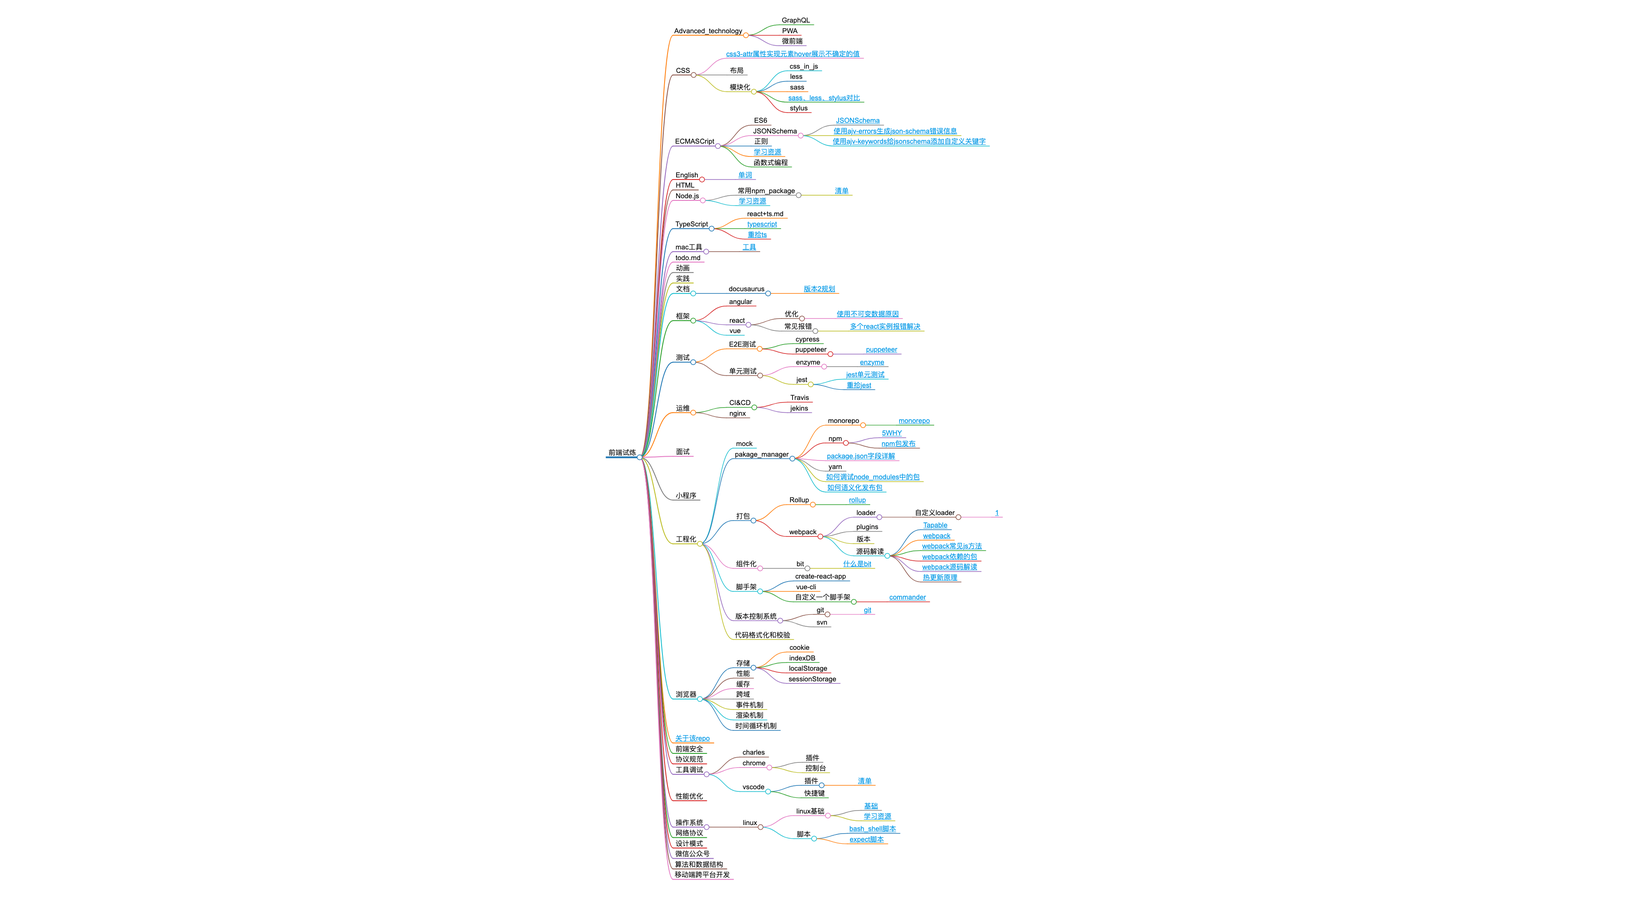
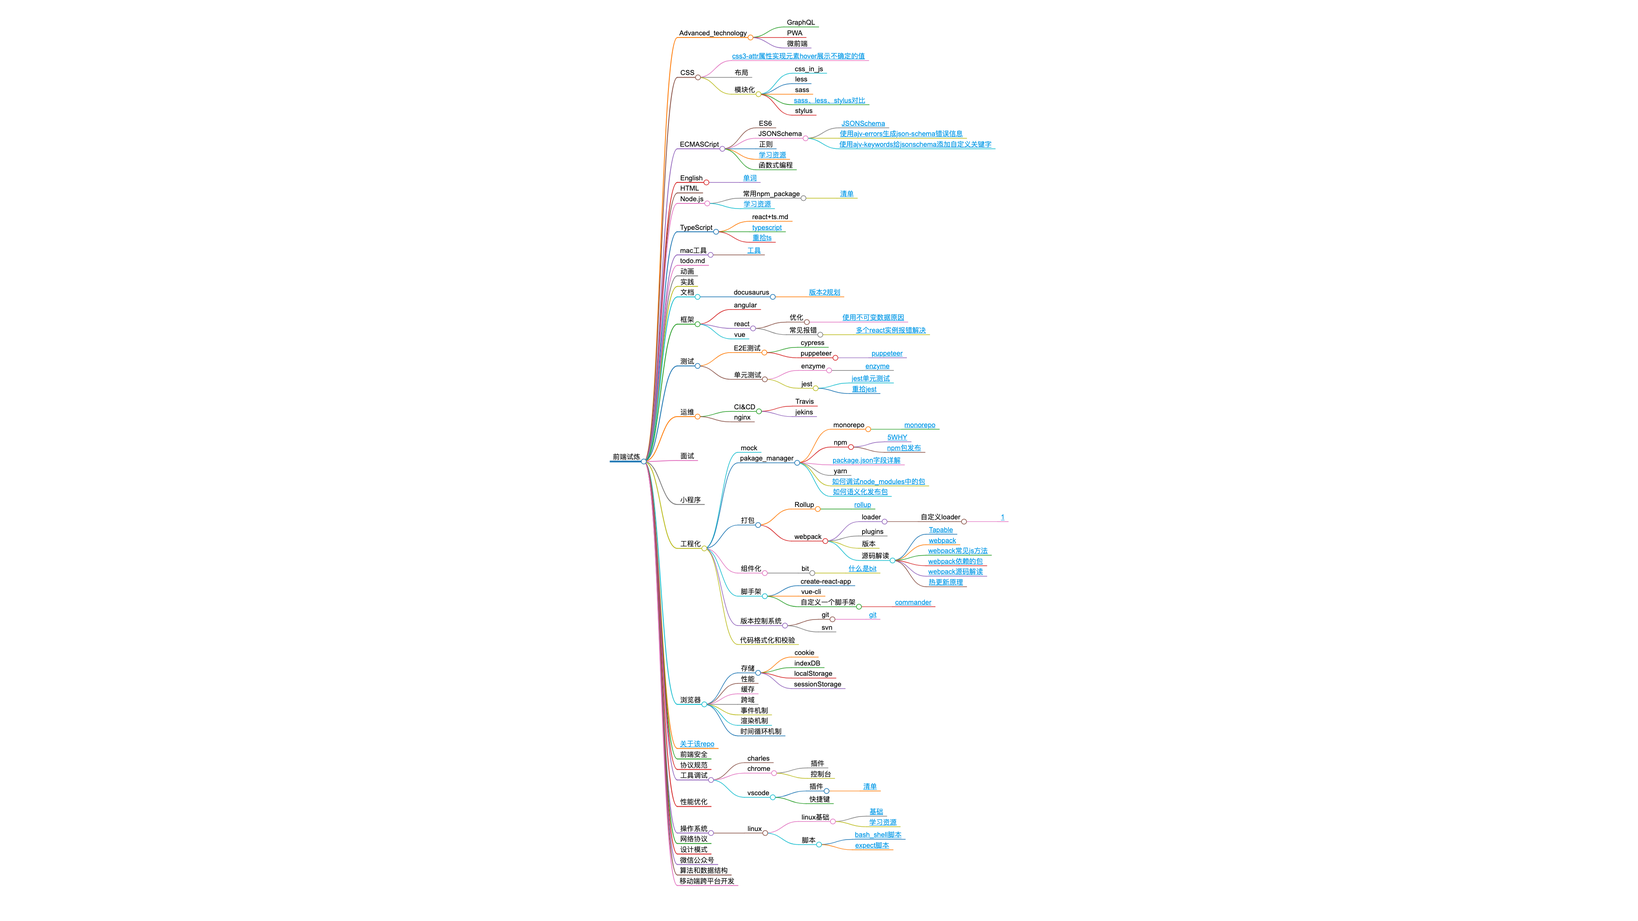
chore: updata思维导图

Changed region(s): [[0.375, 0.0, 0.625, 0.9616]]

diff --git a/website/static/xmind.html b/website/static/xmind.html
@@ -28,6 +28,6 @@
         (init ? init(loadPlugins, items, opts) : Promise.resolve()).then(() => {
           window.mm = Markmap.create('svg#mindmap', null, data);
         });
-      })({"t":"heading","d":1,"v":"前端试炼","c":[{"t":"list_item","d":2,"v":"Advanced_technology","c":[{"t":"list_item","d":3,"v":"GraphQL"},{"t":"list_item","d":3,"v":"PWA"},{"t":"list_item","d":3,"v":"微前端"}]},{"t":"list_item","d":2,"v":"CSS","c":[{"t":"list_item","d":3,"v":"<a href=\"docs/CSS/0729c4e1a19b9e3b6904b91e63cbd435\" title=\"\" target=\"_blank\" rel=\"noopener noreferrer\">css3-attr属性实现元素hover展示不确定的值</a>"},{"t":"list_item","d":3,"v":"布局"},{"t":"list_item","d":3,"v":"模块化","c":[{"t":"list_item","d":4,"v":"css_in_js"},{"t":"list_item","d":4,"v":"less"},{"t":"list_item","d":4,"v":"sass"},{"t":"list_item","d":4,"v":"<a href=\"docs/CSS/模块化/98c70242585e1c8ac87207d342ab81e0\" title=\"\" target=\"_blank\" rel=\"noopener noreferrer\">sass、less、stylus对比</a>"},{"t":"list_item","d":4,"v":"stylus"}]}]},{"t":"list_item","d":2,"v":"ECMASCript","c":[{"t":"list_item","d":3,"v":"ES6"},{"t":"list_item","d":3,"v":"JSONSchema","c":[{"t":"list_item","d":4,"v":"<a href=\"docs/ECMASCript/JSONSchema/718deb34c13a2d51e3c2ba69f472fce9\" title=\"\" target=\"_blank\" rel=\"noopener noreferrer\">JSONSchema</a>"},{"t":"list_item","d":4,"v":"<a href=\"docs/ECMASCript/JSONSchema/f7964c8f9054ea24043d6089ad339147\" title=\"\" target=\"_blank\" rel=\"noopener noreferrer\">使用ajv-errors生成json-schema错误信息</a>"},{"t":"list_item","d":4,"v":"<a href=\"docs/ECMASCript/JSONSchema/5237e232cb7cb852580db82169fdcaeb\" title=\"\" target=\"_blank\" rel=\"noopener noreferrer\">使用ajv-keywords给jsonschema添加自定义关键字</a>"}]},{"t":"list_item","d":3,"v":"正则"},{"t":"list_item","d":3,"v":"<a href=\"docs/操作系统/linux/linux基础/689f3c1463ddd1dcc82289676bfe9c29\" title=\"\" target=\"_blank\" rel=\"noopener noreferrer\">学习资源</a>"},{"t":"list_item","d":3,"v":"函数式编程"}]},{"t":"list_item","d":2,"v":"English","c":[{"t":"list_item","d":3,"v":"<a href=\"docs/English/72a91cf59167d6c497b1e3057447af5a\" title=\"\" target=\"_blank\" rel=\"noopener noreferrer\">单词</a>"}]},{"t":"list_item","d":2,"v":"HTML"},{"t":"list_item","d":2,"v":"Node.js","c":[{"t":"list_item","d":3,"v":"常用npm_package","c":[{"t":"list_item","d":4,"v":"<a href=\"docs/工具调试/vscode/插件/936218830ddd439aad69eb5381a0136e\" title=\"\" target=\"_blank\" rel=\"noopener noreferrer\">清单</a>"}]},{"t":"list_item","d":3,"v":"<a href=\"docs/操作系统/linux/linux基础/689f3c1463ddd1dcc82289676bfe9c29\" title=\"\" target=\"_blank\" rel=\"noopener noreferrer\">学习资源</a>"}]},{"t":"list_item","d":2,"v":"TypeScript","c":[{"t":"list_item","d":3,"v":"react+ts.md"},{"t":"list_item","d":3,"v":"<a href=\"docs/TypeScript/808567b84cc51ad515d4820e54f84e31\" title=\"\" target=\"_blank\" rel=\"noopener noreferrer\">typescript</a>"},{"t":"list_item","d":3,"v":"<a href=\"docs/TypeScript/b36f6376acc1abd98aab96ef91491d2b\" title=\"\" target=\"_blank\" rel=\"noopener noreferrer\">重拾ts</a>"}]},{"t":"list_item","d":2,"v":"mac工具","c":[{"t":"list_item","d":3,"v":"<a href=\"docs/mac工具/5bda6d956aa9663cc7cc9f670a33c494\" title=\"\" target=\"_blank\" rel=\"noopener noreferrer\">工具</a>"}]},{"t":"list_item","d":2,"v":"todo.md"},{"t":"list_item","d":2,"v":"动画"},{"t":"list_item","d":2,"v":"实践"},{"t":"list_item","d":2,"v":"文档","c":[{"t":"list_item","d":3,"v":"docusaurus","c":[{"t":"list_item","d":4,"v":"<a href=\"docs/文档/docusaurus/a7934b68b6234157a1af4087537d1e8b\" title=\"\" target=\"_blank\" rel=\"noopener noreferrer\">版本2规划</a>"}]}]},{"t":"list_item","d":2,"v":"框架","c":[{"t":"list_item","d":3,"v":"angular"},{"t":"list_item","d":3,"v":"react","c":[{"t":"list_item","d":4,"v":"优化","c":[{"t":"list_item","d":5,"v":"<a href=\"docs/框架/react/优化/9593bd0a7ccc4b28542a173a5db9e40d\" title=\"\" target=\"_blank\" rel=\"noopener noreferrer\">使用不可变数据原因</a>"}]},{"t":"list_item","d":4,"v":"常见报错","c":[{"t":"list_item","d":5,"v":"<a href=\"docs/框架/react/常见报错/7d0e60c89a5f550eadf89f5f22550bcc\" title=\"\" target=\"_blank\" rel=\"noopener noreferrer\">多个react实例报错解决</a>"}]}]},{"t":"list_item","d":3,"v":"vue"}]},{"t":"list_item","d":2,"v":"测试","c":[{"t":"list_item","d":3,"v":"E2E测试","c":[{"t":"list_item","d":4,"v":"cypress"},{"t":"list_item","d":4,"v":"puppeteer","c":[{"t":"list_item","d":5,"v":"<a href=\"docs/测试/E2E测试/puppeteer/179673e977b3c3f9ad055a4b4a1e4eff\" title=\"\" target=\"_blank\" rel=\"noopener noreferrer\">puppeteer</a>"}]}]},{"t":"list_item","d":3,"v":"单元测试","c":[{"t":"list_item","d":4,"v":"enzyme","c":[{"t":"list_item","d":5,"v":"<a href=\"docs/测试/单元测试/enzyme/ff68fd239a281351a53d6e0b62b17fe7\" title=\"\" target=\"_blank\" rel=\"noopener noreferrer\">enzyme</a>"}]},{"t":"list_item","d":4,"v":"jest","c":[{"t":"list_item","d":5,"v":"<a href=\"docs/测试/单元测试/jest/094b039468990ad513f1f8dd484d8dc2\" title=\"\" target=\"_blank\" rel=\"noopener noreferrer\">jest单元测试</a>"},{"t":"list_item","d":5,"v":"<a href=\"docs/测试/单元测试/jest/b1f6cee7ef1784df1f5f69a9c4a785da\" title=\"\" target=\"_blank\" rel=\"noopener noreferrer\">重拾jest</a>"}]}]}]},{"t":"list_item","d":2,"v":"运维","c":[{"t":"list_item","d":3,"v":"CI&amp;CD","c":[{"t":"list_item","d":4,"v":"Travis"},{"t":"list_item","d":4,"v":"jekins"}]},{"t":"list_item","d":3,"v":"nginx"}]},{"t":"list_item","d":2,"v":"面试"},{"t":"list_item","d":2,"v":"小程序"},{"t":"list_item","d":2,"v":"工程化","c":[{"t":"list_item","d":3,"v":"mock"},{"t":"list_item","d":3,"v":"pakage_manager","c":[{"t":"list_item","d":4,"v":"monorepo","c":[{"t":"list_item","d":5,"v":"<a href=\"docs/工程化/pakage_manager/monorepo/8f5278ed6bda43d57e7b77d4c5a243e6\" title=\"\" target=\"_blank\" rel=\"noopener noreferrer\">monorepo</a>"}]},{"t":"list_item","d":4,"v":"npm","c":[{"t":"list_item","d":5,"v":"<a href=\"docs/工程化/pakage_manager/npm/c7133389f53e8d534c388d5ce8b37459\" title=\"\" target=\"_blank\" rel=\"noopener noreferrer\">5WHY</a>"},{"t":"list_item","d":5,"v":"<a href=\"docs/工程化/pakage_manager/npm/ba56c3b18aefa148f9439f026ec3f973\" title=\"\" target=\"_blank\" rel=\"noopener noreferrer\">npm包发布</a>"}]},{"t":"list_item","d":4,"v":"<a href=\"docs/工程化/pakage_manager/38f14e8081af1e36ddd422fa9b4db94a\" title=\"\" target=\"_blank\" rel=\"noopener noreferrer\">package.json字段详解</a>"},{"t":"list_item","d":4,"v":"yarn"},{"t":"list_item","d":4,"v":"<a href=\"docs/工程化/pakage_manager/e6a07bea153f8b002ef8dc47f8bc1311\" title=\"\" target=\"_blank\" rel=\"noopener noreferrer\">如何调试node_modules中的包</a>"},{"t":"list_item","d":4,"v":"<a href=\"docs/工程化/pakage_manager/ec0f88d99c3ac3c6b5038c575ac4d1ce\" title=\"\" target=\"_blank\" rel=\"noopener noreferrer\">如何语义化发布包</a>"}]},{"t":"list_item","d":3,"v":"打包","c":[{"t":"list_item","d":4,"v":"Rollup","c":[{"t":"list_item","d":5,"v":"<a href=\"docs/工程化/打包/Rollup/4918d3072fb3da6be9ad6cfe54c020f3\" title=\"\" target=\"_blank\" rel=\"noopener noreferrer\">rollup</a>"}]},{"t":"list_item","d":4,"v":"webpack","c":[{"t":"list_item","d":5,"v":"loader","c":[{"t":"list_item","d":6,"v":"自定义loader","c":[{"t":"list_item","d":7,"v":"<a href=\"docs/工程化/打包/webpack/loader/自定义loader/c6093b78d3f332e1920b4067fa4121a9\" title=\"\" target=\"_blank\" rel=\"noopener noreferrer\">1</a>"}]}]},{"t":"list_item","d":5,"v":"plugins"},{"t":"list_item","d":5,"v":"版本"},{"t":"list_item","d":5,"v":"源码解读","c":[{"t":"list_item","d":6,"v":"<a href=\"docs/工程化/打包/webpack/源码解读/3044cf73a36f83e5344247f79ffb719e\" title=\"\" target=\"_blank\" rel=\"noopener noreferrer\">Tapable</a>"},{"t":"list_item","d":6,"v":"<a href=\"docs/工程化/打包/webpack/源码解读/8b9409a6ad189493556150ffca9a2079\" title=\"\" target=\"_blank\" rel=\"noopener noreferrer\">webpack</a>"},{"t":"list_item","d":6,"v":"<a href=\"docs/工程化/打包/webpack/源码解读/7cb10912f28c1696659c6131b517f27c\" title=\"\" target=\"_blank\" rel=\"noopener noreferrer\">webpack常见js方法</a>"},{"t":"list_item","d":6,"v":"<a href=\"docs/工程化/打包/webpack/源码解读/0889ebe5191ee49173a6c02e5d4ccd6f\" title=\"\" target=\"_blank\" rel=\"noopener noreferrer\">webpack依赖的包</a>"},{"t":"list_item","d":6,"v":"<a href=\"docs/工程化/打包/webpack/源码解读/80e8979bbebe30571bf98fea6d3b32d0\" title=\"\" target=\"_blank\" rel=\"noopener noreferrer\">webpack源码解读</a>"},{"t":"list_item","d":6,"v":"<a href=\"docs/工程化/打包/webpack/源码解读/768e191e2dc797ba437ddbf619dcf3b5\" title=\"\" target=\"_blank\" rel=\"noopener noreferrer\">热更新原理</a>"}]}]}]},{"t":"list_item","d":3,"v":"组件化","c":[{"t":"list_item","d":4,"v":"bit","c":[{"t":"list_item","d":5,"v":"<a href=\"docs/工程化/组件化/bit/a0d47b851468953d2c75ec36293fc240\" title=\"\" target=\"_blank\" rel=\"noopener noreferrer\">什么是bit</a>"}]}]},{"t":"list_item","d":3,"v":"脚手架","c":[{"t":"list_item","d":4,"v":"create-react-app"},{"t":"list_item","d":4,"v":"vue-cli"},{"t":"list_item","d":4,"v":"自定义一个脚手架","c":[{"t":"list_item","d":5,"v":"<a href=\"docs/工程化/脚手架/自定义一个脚手架/e1f3c1423014acd77d6282114faf6935\" title=\"\" target=\"_blank\" rel=\"noopener noreferrer\">commander</a>"}]}]},{"t":"list_item","d":3,"v":"版本控制系统","c":[{"t":"list_item","d":4,"v":"git","c":[{"t":"list_item","d":5,"v":"<a href=\"docs/工程化/版本控制系统/git/85735fc293ff4dbf3ef3e42201cb061d\" title=\"\" target=\"_blank\" rel=\"noopener noreferrer\">git</a>"}]},{"t":"list_item","d":4,"v":"svn"}]},{"t":"list_item","d":3,"v":"代码格式化和校验"}]},{"t":"list_item","d":2,"v":"浏览器","c":[{"t":"list_item","d":3,"v":"存储","c":[{"t":"list_item","d":4,"v":"cookie"},{"t":"list_item","d":4,"v":"indexDB"},{"t":"list_item","d":4,"v":"localStorage"},{"t":"list_item","d":4,"v":"sessionStorage"}]},{"t":"list_item","d":3,"v":"性能"},{"t":"list_item","d":3,"v":"缓存"},{"t":"list_item","d":3,"v":"跨域"},{"t":"list_item","d":3,"v":"事件机制"},{"t":"list_item","d":3,"v":"渲染机制"},{"t":"list_item","d":3,"v":"时间循环机制"}]},{"t":"list_item","d":2,"v":"<a href=\"docs/95a148348b289ba387509c05eb1c6af2\" title=\"\" target=\"_blank\" rel=\"noopener noreferrer\">关于该repo</a>"},{"t":"list_item","d":2,"v":"前端安全"},{"t":"list_item","d":2,"v":"协议规范"},{"t":"list_item","d":2,"v":"工具调试","c":[{"t":"list_item","d":3,"v":"charles"},{"t":"list_item","d":3,"v":"chrome","c":[{"t":"list_item","d":4,"v":"插件"},{"t":"list_item","d":4,"v":"控制台"}]},{"t":"list_item","d":3,"v":"vscode","c":[{"t":"list_item","d":4,"v":"插件","c":[{"t":"list_item","d":5,"v":"<a href=\"docs/工具调试/vscode/插件/936218830ddd439aad69eb5381a0136e\" title=\"\" target=\"_blank\" rel=\"noopener noreferrer\">清单</a>"}]},{"t":"list_item","d":4,"v":"快捷键"}]}]},{"t":"list_item","d":2,"v":"性能优化"},{"t":"list_item","d":2,"v":"操作系统","c":[{"t":"list_item","d":3,"v":"linux","c":[{"t":"list_item","d":4,"v":"linux基础","c":[{"t":"list_item","d":5,"v":"<a href=\"docs/操作系统/linux/linux基础/585ed91706206035253631d51d62d7d1\" title=\"\" target=\"_blank\" rel=\"noopener noreferrer\">基础</a>"},{"t":"list_item","d":5,"v":"<a href=\"docs/操作系统/linux/linux基础/689f3c1463ddd1dcc82289676bfe9c29\" title=\"\" target=\"_blank\" rel=\"noopener noreferrer\">学习资源</a>"}]},{"t":"list_item","d":4,"v":"脚本","c":[{"t":"list_item","d":5,"v":"<a href=\"docs/操作系统/linux/脚本/5d8743a01675138db72310478b6c7f30\" title=\"\" target=\"_blank\" rel=\"noopener noreferrer\">bash_shell脚本</a>"},{"t":"list_item","d":5,"v":"<a href=\"docs/操作系统/linux/脚本/c89e3ed149c086944696ba0fe3a5ffde\" title=\"\" target=\"_blank\" rel=\"noopener noreferrer\">expect脚本</a>"}]}]}]},{"t":"list_item","d":2,"v":"网络协议"},{"t":"list_item","d":2,"v":"设计模式"},{"t":"list_item","d":2,"v":"微信公众号"},{"t":"list_item","d":2,"v":"算法和数据结构"},{"t":"list_item","d":2,"v":"移动端跨平台开发"}]},(loadPlugins, items, opts) => loadPlugins(items, opts),["prism"],{"prism":true})</script>
+      })({"t":"heading","d":1,"v":"前端试炼","c":[{"t":"list_item","d":2,"v":"Advanced_technology","c":[{"t":"list_item","d":3,"v":"GraphQL"},{"t":"list_item","d":3,"v":"PWA"},{"t":"list_item","d":3,"v":"微前端"}]},{"t":"list_item","d":2,"v":"CSS","c":[{"t":"list_item","d":3,"v":"<a href=\"docs/CSS/0729c4e1a19b9e3b6904b91e63cbd435\" title=\"\" target=\"_blank\" rel=\"noopener noreferrer\">css3-attr属性实现元素hover展示不确定的值</a>"},{"t":"list_item","d":3,"v":"布局"},{"t":"list_item","d":3,"v":"模块化","c":[{"t":"list_item","d":4,"v":"css_in_js"},{"t":"list_item","d":4,"v":"less"},{"t":"list_item","d":4,"v":"sass"},{"t":"list_item","d":4,"v":"<a href=\"docs/CSS/模块化/98c70242585e1c8ac87207d342ab81e0\" title=\"\" target=\"_blank\" rel=\"noopener noreferrer\">sass、less、stylus对比</a>"},{"t":"list_item","d":4,"v":"stylus"}]}]},{"t":"list_item","d":2,"v":"ECMASCript","c":[{"t":"list_item","d":3,"v":"ES6"},{"t":"list_item","d":3,"v":"JSONSchema","c":[{"t":"list_item","d":4,"v":"<a href=\"docs/ECMASCript/JSONSchema/718deb34c13a2d51e3c2ba69f472fce9\" title=\"\" target=\"_blank\" rel=\"noopener noreferrer\">JSONSchema</a>"},{"t":"list_item","d":4,"v":"<a href=\"docs/ECMASCript/JSONSchema/f7964c8f9054ea24043d6089ad339147\" title=\"\" target=\"_blank\" rel=\"noopener noreferrer\">使用ajv-errors生成json-schema错误信息</a>"},{"t":"list_item","d":4,"v":"<a href=\"docs/ECMASCript/JSONSchema/5237e232cb7cb852580db82169fdcaeb\" title=\"\" target=\"_blank\" rel=\"noopener noreferrer\">使用ajv-keywords给jsonschema添加自定义关键字</a>"}]},{"t":"list_item","d":3,"v":"正则"},{"t":"list_item","d":3,"v":"<a href=\"docs/ECMASCript/b53484b1bcbe1911e09c68d510ac7d64\" title=\"\" target=\"_blank\" rel=\"noopener noreferrer\">学习资源</a>"},{"t":"list_item","d":3,"v":"函数式编程"}]},{"t":"list_item","d":2,"v":"English","c":[{"t":"list_item","d":3,"v":"<a href=\"docs/English/72a91cf59167d6c497b1e3057447af5a\" title=\"\" target=\"_blank\" rel=\"noopener noreferrer\">单词</a>"}]},{"t":"list_item","d":2,"v":"HTML"},{"t":"list_item","d":2,"v":"Node.js","c":[{"t":"list_item","d":3,"v":"常用npm_package","c":[{"t":"list_item","d":4,"v":"<a href=\"docs/Node.js/常用npm_package/67e99d6582cb0c3126c6e3f7cc9a7d66\" title=\"\" target=\"_blank\" rel=\"noopener noreferrer\">清单</a>"}]},{"t":"list_item","d":3,"v":"<a href=\"docs/ECMASCript/b53484b1bcbe1911e09c68d510ac7d64\" title=\"\" target=\"_blank\" rel=\"noopener noreferrer\">学习资源</a>"}]},{"t":"list_item","d":2,"v":"TypeScript","c":[{"t":"list_item","d":3,"v":"react+ts.md"},{"t":"list_item","d":3,"v":"<a href=\"docs/TypeScript/808567b84cc51ad515d4820e54f84e31\" title=\"\" target=\"_blank\" rel=\"noopener noreferrer\">typescript</a>"},{"t":"list_item","d":3,"v":"<a href=\"docs/TypeScript/b36f6376acc1abd98aab96ef91491d2b\" title=\"\" target=\"_blank\" rel=\"noopener noreferrer\">重拾ts</a>"}]},{"t":"list_item","d":2,"v":"mac工具","c":[{"t":"list_item","d":3,"v":"<a href=\"docs/mac工具/e4900cf2bab323e0782022384a85a741\" title=\"\" target=\"_blank\" rel=\"noopener noreferrer\">工具</a>"}]},{"t":"list_item","d":2,"v":"todo.md"},{"t":"list_item","d":2,"v":"动画"},{"t":"list_item","d":2,"v":"实践"},{"t":"list_item","d":2,"v":"文档","c":[{"t":"list_item","d":3,"v":"docusaurus","c":[{"t":"list_item","d":4,"v":"<a href=\"docs/文档/docusaurus/a7934b68b6234157a1af4087537d1e8b\" title=\"\" target=\"_blank\" rel=\"noopener noreferrer\">版本2规划</a>"}]}]},{"t":"list_item","d":2,"v":"框架","c":[{"t":"list_item","d":3,"v":"angular"},{"t":"list_item","d":3,"v":"react","c":[{"t":"list_item","d":4,"v":"优化","c":[{"t":"list_item","d":5,"v":"<a href=\"docs/框架/react/优化/9593bd0a7ccc4b28542a173a5db9e40d\" title=\"\" target=\"_blank\" rel=\"noopener noreferrer\">使用不可变数据原因</a>"}]},{"t":"list_item","d":4,"v":"常见报错","c":[{"t":"list_item","d":5,"v":"<a href=\"docs/框架/react/常见报错/7d0e60c89a5f550eadf89f5f22550bcc\" title=\"\" target=\"_blank\" rel=\"noopener noreferrer\">多个react实例报错解决</a>"}]}]},{"t":"list_item","d":3,"v":"vue"}]},{"t":"list_item","d":2,"v":"测试","c":[{"t":"list_item","d":3,"v":"E2E测试","c":[{"t":"list_item","d":4,"v":"cypress"},{"t":"list_item","d":4,"v":"puppeteer","c":[{"t":"list_item","d":5,"v":"<a href=\"docs/测试/E2E测试/puppeteer/179673e977b3c3f9ad055a4b4a1e4eff\" title=\"\" target=\"_blank\" rel=\"noopener noreferrer\">puppeteer</a>"}]}]},{"t":"list_item","d":3,"v":"单元测试","c":[{"t":"list_item","d":4,"v":"enzyme","c":[{"t":"list_item","d":5,"v":"<a href=\"docs/测试/单元测试/enzyme/ff68fd239a281351a53d6e0b62b17fe7\" title=\"\" target=\"_blank\" rel=\"noopener noreferrer\">enzyme</a>"}]},{"t":"list_item","d":4,"v":"jest","c":[{"t":"list_item","d":5,"v":"<a href=\"docs/测试/单元测试/jest/094b039468990ad513f1f8dd484d8dc2\" title=\"\" target=\"_blank\" rel=\"noopener noreferrer\">jest单元测试</a>"},{"t":"list_item","d":5,"v":"<a href=\"docs/测试/单元测试/jest/b1f6cee7ef1784df1f5f69a9c4a785da\" title=\"\" target=\"_blank\" rel=\"noopener noreferrer\">重拾jest</a>"}]}]}]},{"t":"list_item","d":2,"v":"运维","c":[{"t":"list_item","d":3,"v":"CI&amp;CD","c":[{"t":"list_item","d":4,"v":"Travis"},{"t":"list_item","d":4,"v":"jekins"}]},{"t":"list_item","d":3,"v":"nginx"}]},{"t":"list_item","d":2,"v":"面试"},{"t":"list_item","d":2,"v":"小程序"},{"t":"list_item","d":2,"v":"工程化","c":[{"t":"list_item","d":3,"v":"mock"},{"t":"list_item","d":3,"v":"pakage_manager","c":[{"t":"list_item","d":4,"v":"monorepo","c":[{"t":"list_item","d":5,"v":"<a href=\"docs/工程化/pakage_manager/monorepo/8f5278ed6bda43d57e7b77d4c5a243e6\" title=\"\" target=\"_blank\" rel=\"noopener noreferrer\">monorepo</a>"}]},{"t":"list_item","d":4,"v":"npm","c":[{"t":"list_item","d":5,"v":"<a href=\"docs/工程化/pakage_manager/npm/c7133389f53e8d534c388d5ce8b37459\" title=\"\" target=\"_blank\" rel=\"noopener noreferrer\">5WHY</a>"},{"t":"list_item","d":5,"v":"<a href=\"docs/工程化/pakage_manager/npm/ba56c3b18aefa148f9439f026ec3f973\" title=\"\" target=\"_blank\" rel=\"noopener noreferrer\">npm包发布</a>"}]},{"t":"list_item","d":4,"v":"<a href=\"docs/工程化/pakage_manager/38f14e8081af1e36ddd422fa9b4db94a\" title=\"\" target=\"_blank\" rel=\"noopener noreferrer\">package.json字段详解</a>"},{"t":"list_item","d":4,"v":"yarn"},{"t":"list_item","d":4,"v":"<a href=\"docs/工程化/pakage_manager/e6a07bea153f8b002ef8dc47f8bc1311\" title=\"\" target=\"_blank\" rel=\"noopener noreferrer\">如何调试node_modules中的包</a>"},{"t":"list_item","d":4,"v":"<a href=\"docs/工程化/pakage_manager/ec0f88d99c3ac3c6b5038c575ac4d1ce\" title=\"\" target=\"_blank\" rel=\"noopener noreferrer\">如何语义化发布包</a>"}]},{"t":"list_item","d":3,"v":"打包","c":[{"t":"list_item","d":4,"v":"Rollup","c":[{"t":"list_item","d":5,"v":"<a href=\"docs/工程化/打包/Rollup/4918d3072fb3da6be9ad6cfe54c020f3\" title=\"\" target=\"_blank\" rel=\"noopener noreferrer\">rollup</a>"}]},{"t":"list_item","d":4,"v":"webpack","c":[{"t":"list_item","d":5,"v":"loader","c":[{"t":"list_item","d":6,"v":"自定义loader","c":[{"t":"list_item","d":7,"v":"<a href=\"docs/工程化/打包/webpack/loader/自定义loader/c6093b78d3f332e1920b4067fa4121a9\" title=\"\" target=\"_blank\" rel=\"noopener noreferrer\">1</a>"}]}]},{"t":"list_item","d":5,"v":"plugins"},{"t":"list_item","d":5,"v":"版本"},{"t":"list_item","d":5,"v":"源码解读","c":[{"t":"list_item","d":6,"v":"<a href=\"docs/工程化/打包/webpack/源码解读/3044cf73a36f83e5344247f79ffb719e\" title=\"\" target=\"_blank\" rel=\"noopener noreferrer\">Tapable</a>"},{"t":"list_item","d":6,"v":"<a href=\"docs/工程化/打包/webpack/源码解读/8b9409a6ad189493556150ffca9a2079\" title=\"\" target=\"_blank\" rel=\"noopener noreferrer\">webpack</a>"},{"t":"list_item","d":6,"v":"<a href=\"docs/工程化/打包/webpack/源码解读/7cb10912f28c1696659c6131b517f27c\" title=\"\" target=\"_blank\" rel=\"noopener noreferrer\">webpack常见js方法</a>"},{"t":"list_item","d":6,"v":"<a href=\"docs/工程化/打包/webpack/源码解读/0889ebe5191ee49173a6c02e5d4ccd6f\" title=\"\" target=\"_blank\" rel=\"noopener noreferrer\">webpack依赖的包</a>"},{"t":"list_item","d":6,"v":"<a href=\"docs/工程化/打包/webpack/源码解读/80e8979bbebe30571bf98fea6d3b32d0\" title=\"\" target=\"_blank\" rel=\"noopener noreferrer\">webpack源码解读</a>"},{"t":"list_item","d":6,"v":"<a href=\"docs/工程化/打包/webpack/源码解读/768e191e2dc797ba437ddbf619dcf3b5\" title=\"\" target=\"_blank\" rel=\"noopener noreferrer\">热更新原理</a>"}]}]}]},{"t":"list_item","d":3,"v":"组件化","c":[{"t":"list_item","d":4,"v":"bit","c":[{"t":"list_item","d":5,"v":"<a href=\"docs/工程化/组件化/bit/a0d47b851468953d2c75ec36293fc240\" title=\"\" target=\"_blank\" rel=\"noopener noreferrer\">什么是bit</a>"}]}]},{"t":"list_item","d":3,"v":"脚手架","c":[{"t":"list_item","d":4,"v":"create-react-app"},{"t":"list_item","d":4,"v":"vue-cli"},{"t":"list_item","d":4,"v":"自定义一个脚手架","c":[{"t":"list_item","d":5,"v":"<a href=\"docs/工程化/脚手架/自定义一个脚手架/e1f3c1423014acd77d6282114faf6935\" title=\"\" target=\"_blank\" rel=\"noopener noreferrer\">commander</a>"}]}]},{"t":"list_item","d":3,"v":"版本控制系统","c":[{"t":"list_item","d":4,"v":"git","c":[{"t":"list_item","d":5,"v":"<a href=\"docs/工程化/版本控制系统/git/85735fc293ff4dbf3ef3e42201cb061d\" title=\"\" target=\"_blank\" rel=\"noopener noreferrer\">git</a>"}]},{"t":"list_item","d":4,"v":"svn"}]},{"t":"list_item","d":3,"v":"代码格式化和校验"}]},{"t":"list_item","d":2,"v":"浏览器","c":[{"t":"list_item","d":3,"v":"存储","c":[{"t":"list_item","d":4,"v":"cookie"},{"t":"list_item","d":4,"v":"indexDB"},{"t":"list_item","d":4,"v":"localStorage"},{"t":"list_item","d":4,"v":"sessionStorage"}]},{"t":"list_item","d":3,"v":"性能"},{"t":"list_item","d":3,"v":"缓存"},{"t":"list_item","d":3,"v":"跨域"},{"t":"list_item","d":3,"v":"事件机制"},{"t":"list_item","d":3,"v":"渲染机制"},{"t":"list_item","d":3,"v":"时间循环机制"}]},{"t":"list_item","d":2,"v":"<a href=\"docs/95a148348b289ba387509c05eb1c6af2\" title=\"\" target=\"_blank\" rel=\"noopener noreferrer\">关于该repo</a>"},{"t":"list_item","d":2,"v":"前端安全"},{"t":"list_item","d":2,"v":"协议规范"},{"t":"list_item","d":2,"v":"工具调试","c":[{"t":"list_item","d":3,"v":"charles"},{"t":"list_item","d":3,"v":"chrome","c":[{"t":"list_item","d":4,"v":"插件"},{"t":"list_item","d":4,"v":"控制台"}]},{"t":"list_item","d":3,"v":"vscode","c":[{"t":"list_item","d":4,"v":"插件","c":[{"t":"list_item","d":5,"v":"<a href=\"docs/Node.js/常用npm_package/67e99d6582cb0c3126c6e3f7cc9a7d66\" title=\"\" target=\"_blank\" rel=\"noopener noreferrer\">清单</a>"}]},{"t":"list_item","d":4,"v":"快捷键"}]}]},{"t":"list_item","d":2,"v":"性能优化"},{"t":"list_item","d":2,"v":"操作系统","c":[{"t":"list_item","d":3,"v":"linux","c":[{"t":"list_item","d":4,"v":"linux基础","c":[{"t":"list_item","d":5,"v":"<a href=\"docs/操作系统/linux/linux基础/585ed91706206035253631d51d62d7d1\" title=\"\" target=\"_blank\" rel=\"noopener noreferrer\">基础</a>"},{"t":"list_item","d":5,"v":"<a href=\"docs/ECMASCript/b53484b1bcbe1911e09c68d510ac7d64\" title=\"\" target=\"_blank\" rel=\"noopener noreferrer\">学习资源</a>"}]},{"t":"list_item","d":4,"v":"脚本","c":[{"t":"list_item","d":5,"v":"<a href=\"docs/操作系统/linux/脚本/5d8743a01675138db72310478b6c7f30\" title=\"\" target=\"_blank\" rel=\"noopener noreferrer\">bash_shell脚本</a>"},{"t":"list_item","d":5,"v":"<a href=\"docs/操作系统/linux/脚本/c89e3ed149c086944696ba0fe3a5ffde\" title=\"\" target=\"_blank\" rel=\"noopener noreferrer\">expect脚本</a>"}]}]}]},{"t":"list_item","d":2,"v":"网络协议"},{"t":"list_item","d":2,"v":"设计模式"},{"t":"list_item","d":2,"v":"微信公众号"},{"t":"list_item","d":2,"v":"算法和数据结构"},{"t":"list_item","d":2,"v":"移动端跨平台开发"}]},(loadPlugins, items, opts) => loadPlugins(items, opts),["prism"],{"prism":true})</script>
 </body>
 </html>
